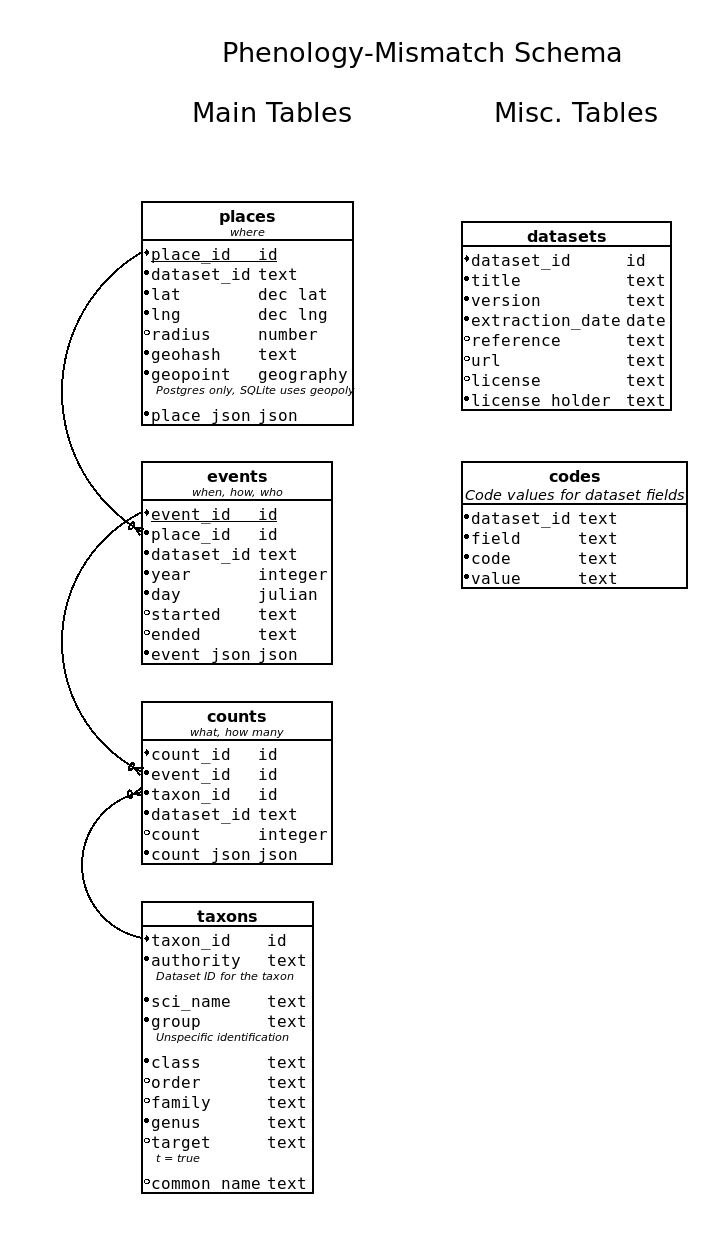
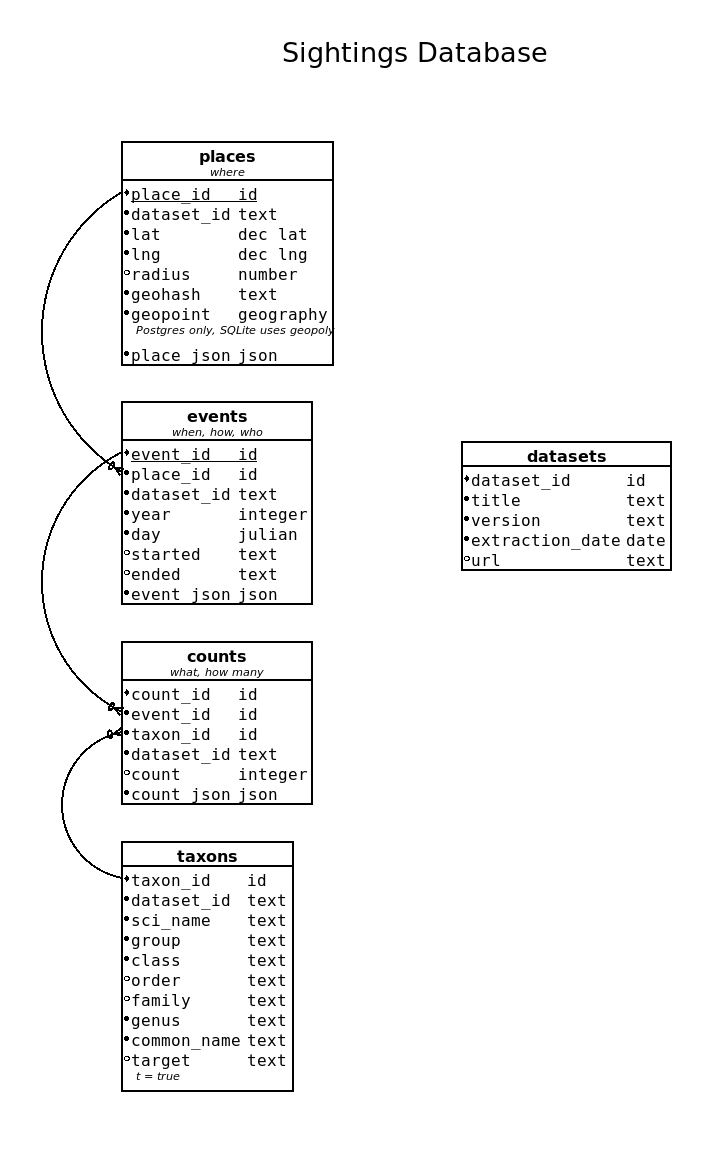
Update schema to handle odd taxons WIP

diff --git a/lib/bbs_ingest.py b/lib/bbs_ingest.py
@@ -21,7 +21,6 @@ def ingest():
         'version': '2016.0',
         'url': 'https://www.pwrc.usgs.gov/bbs/'})
 
-    insert_codes()
     to_place_id = insert_places()
     to_event_id = insert_events(to_place_id)
     insert_counts(to_event_id)
@@ -159,99 +158,6 @@ def get_raw_taxons():
         raw_taxons, how='inner', left_index=True, right_index=True)
 
     return taxons.set_index('aou').taxon_id.to_dict()
-
-
-def insert_codes():
-    """Insert codes."""
-    log(f'Inserting {DATASET_ID} codes')
-
-    bcr = pd.read_fwf(
-        RAW_DIR / 'BCR.txt',
-        skiprows=7,
-        encoding='ISO-8859-1',
-        usecols=[0, 1],
-        keep_default_na=False,
-        names=['code', 'value'])
-    bcr['field'] = 'bcr'
-
-    strata = pd.read_fwf(
-        RAW_DIR / 'BBSStrata.txt',
-        skiprows=16,
-        encoding='ISO-8859-1',
-        usecols=[0, 1],
-        keep_default_na=False,
-        names=['code', 'value'])
-    strata['field'] = 'strata'
-
-    protocols = pd.read_fwf(
-        RAW_DIR / 'RunProtocolID.txt',
-        skiprows=4,
-        encoding='ISO-8859-1',
-        colspecs=[(0, 3), (5, 55)],
-        names=['code', 'value'])
-    protocols['field'] = 'runprotocol'
-
-    descrs = pd.read_fwf(
-        RAW_DIR / 'RunProtocolID.txt',
-        skiprows=4,
-        encoding='ISO-8859-1',
-        colspecs=[(0, 3), (56, 141)],
-        names=['code', 'value'])
-    descrs['field'] = 'runprotocoldesc'
-
-    wind = pd.read_fwf(
-        RAW_DIR / 'weathercodes.txt',
-        skiprows=8,
-        skipfooter=13,
-        encoding='ISO-8859-1',
-        colspecs=[(0, 1), (7, 72)],
-        keep_default_na=False,
-        names=['code', 'value'])
-    wind['field'] = 'wind'
-
-    sky = pd.read_fwf(
-        RAW_DIR / 'weathercodes.txt',
-        skiprows=23,
-        encoding='ISO-8859-1',
-        colspecs=[(0, 1), (6, 56)],
-        keep_default_na=False,
-        names=['code', 'value'])
-    sky['field'] = 'sky'
-
-    states = pd.read_fwf(
-        RAW_DIR / 'RegionCodes.txt',
-        skiprows=11,
-        usecols=[1, 2],
-        encoding='ISO-8859-1',
-        keep_default_na=False,
-        names=['code', 'value'])
-    states['field'] = 'state'
-
-    types = pd.read_fwf(
-        RAW_DIR / 'RouteInf.txt',
-        skiprows=28,
-        skipfooter=13,
-        colspecs=[(3, 4), (7, 18)],
-        encoding='ISO-8859-1',
-        keep_default_na=False,
-        names=['code', 'value'])
-    types['field'] = 'routetype'
-
-    details = pd.read_fwf(
-        RAW_DIR / 'RouteInf.txt',
-        skiprows=33,
-        skipfooter=5,
-        colspecs=[(3, 4), (7, 45)],
-        encoding='ISO-8859-1',
-        keep_default_na=False,
-        names=['code', 'value'])
-    details['field'] = 'routetypedetail'
-
-    codes = bcr.append(
-        [strata, protocols, descrs, wind, sky, states, types, details],
-        ignore_index=True)
-    codes['dataset_id'] = DATASET_ID
-    codes.to_sql('codes', db.connect(), if_exists='append', index=False)
 
 
 if __name__ == '__main__':

diff --git a/lib/ebird_ingest.py b/lib/ebird_ingest.py
@@ -23,8 +23,6 @@ def ingest():
         'version': 'relFeb-2018',
         'url': 'https://ebird.org/home'})
 
-    insert_codes()
-
     chunk = 1_000_000
     reader = pd.read_csv(
         RAW_DIR / 'ebd_relFeb-2018.txt',
@@ -183,38 +181,6 @@ def insert_counts(counts, to_event_id, to_taxon_id):
 
     counts.loc[:, db.COUNT_FIELDS].to_sql(
         'counts', db.connect(), if_exists='append', index=False)
-
-
-def insert_codes():
-    """Insert codes."""
-    log(f'Inserting {DATASET_ID} codes')
-
-    bcr = pd.read_csv(
-        RAW_DIR / 'BCRCodes.txt',
-        sep='\t',
-        encoding='ISO-8859-1',
-        names=['code', 'value'])
-    bcr['field'] = 'BCR CODE'
-
-    iba = pd.read_csv(
-        RAW_DIR / 'IBACodes.txt',
-        sep='\t',
-        encoding='ISO-8859-1',
-        names=['code', 'value'])
-    iba['field'] = 'IBA CODE'
-
-    usfws = pd.read_csv(
-        RAW_DIR / 'USFWSCodes.txt',
-        sep='\t',
-        encoding='ISO-8859-1',
-        names=['code', 'value'])
-    usfws['field'] = 'USFWS CODE'
-
-    codes = pd.read_csv(RAW_DIR / 'ebird_codes.csv')
-    codes = codes.append([bcr, iba, usfws], ignore_index=True, sort=True)
-    codes['dataset_id'] = DATASET_ID
-
-    codes.to_sql('codes', db.connect(), if_exists='append', index=False)
 
 
 if __name__ == '__main__':

diff --git a/lib/maps_ingest.py b/lib/maps_ingest.py
@@ -31,7 +31,6 @@ def ingest():
         'version': '2017.0',
         'url': 'https://www.birdpop.org/pages/maps.php'})
 
-    insert_codes()
     to_place_id = insert_places()
     to_event_id = insert_events(to_place_id)
     insert_counts(to_event_id)
@@ -192,14 +191,6 @@ def get_raw_taxons():
     taxons = taxons.merge(raw, how='inner', left_index=True, right_index=True)
 
     return taxons.set_index('SPEC').taxon_id.to_dict()
-
-
-def insert_codes():
-    """Insert codes."""
-    log(f'Inserting {DATASET_ID} codes')
-    codes = pd.read_csv(RAW_DIR / 'maps_codes.csv')
-    codes['dataset_id'] = DATASET_ID
-    codes.to_sql('codes', db.connect(), if_exists='append', index=False)
 
 
 if __name__ == '__main__':

diff --git a/lib/clements_ingest.py b/lib/clements_ingest.py
@@ -13,7 +13,8 @@ TAXON_DIR = Path('data') / 'raw' / 'taxonomy'
 
 def ingest():
     """Extract, transform, & load Clements taxonomy into the database."""
-    csv_path = TAXON_DIR / 'Clements-Checklist-v2017-August-2017_2.csv'
+    csv_path = \
+        TAXON_DIR / 'eBird-Clements-v2018-integrated-checklist-August-2018.csv'
 
     db.delete_dataset(DATASET_ID)
 
@@ -37,7 +38,7 @@ def ingest():
 
     taxons.sci_name = taxons.sci_name.str.split().str.join(' ')
     taxons['genus'] = taxons.sci_name.str.split().str[0]
-    taxons['authority'] = DATASET_ID
+    taxons['dataset_id'] = DATASET_ID
     taxons['class'] = 'aves'
     taxons['group'] = None
 

diff --git a/lib/db.py b/lib/db.py
@@ -14,8 +14,7 @@ INTERIM = Path('data') / 'interim'
 DB_FILE = abspath(PROCESSED / 'sightings.sqlite.db')
 SCRIPT_PATH = Path('sql')
 
-
-TABLES = 'datasets codes taxons places events counts'.split()
+TABLES = 'datasets taxons places events counts'.split()
 PLACE_FIELDS = 'place_id dataset_id lng lat radius place_json'.split()
 EVENT_FIELDS = """event_id place_id dataset_id year day started ended
     event_json""".split()

diff --git a/lib/pollard_ingest.py b/lib/pollard_ingest.py
@@ -63,7 +63,7 @@ def insert_taxons(raw_data):
     taxons.rename(columns={'Species': 'common_name'}, inplace=True)
 
     taxons['genus'] = taxons.sci_name.str.split().str[0]
-    taxons['authority'] = DATASET_ID
+    taxons['dataset_id'] = DATASET_ID
     taxons['class'] = 'lepidoptera'
     taxons['group'] = None
     taxons['order'] = None

diff --git a/lib/naba_ingest.py b/lib/naba_ingest.py
@@ -70,7 +70,7 @@ def insert_taxons(raw_data):
     taxons = raw_data.loc[firsts, ['sci_name']]
 
     taxons['genus'] = taxons.sci_name.str.split().str[0]
-    taxons['authority'] = DATASET_ID
+    taxons['dataset_id'] = DATASET_ID
     taxons['class'] = 'lepidoptera'
     taxons['group'] = None
     taxons['order'] = None

diff --git a/lib/caterpillar_ingest.py b/lib/caterpillar_ingest.py
@@ -47,7 +47,7 @@ def insert_taxons():
 
     taxons['sci_name'] = taxons.group
     taxons['genus'] = None
-    taxons['authority'] = DATASET_ID
+    taxons['dataset_id'] = DATASET_ID
     taxons['class'] = None
     taxons['order'] = None
     taxons['family'] = None
